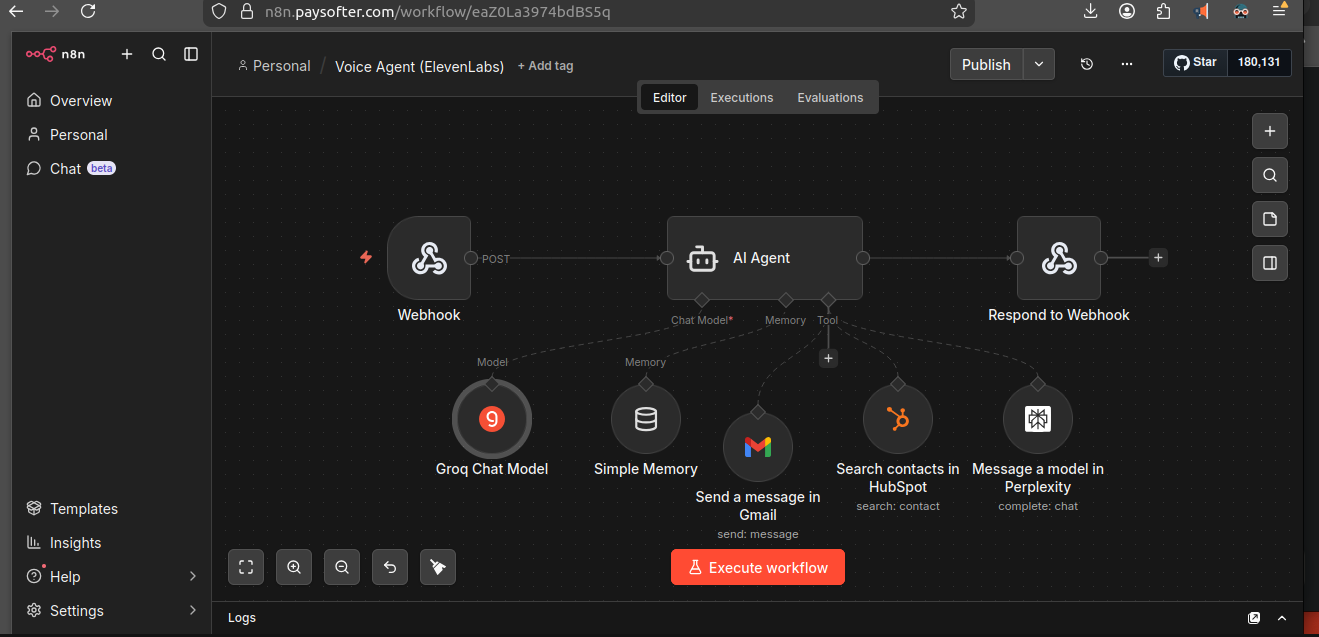
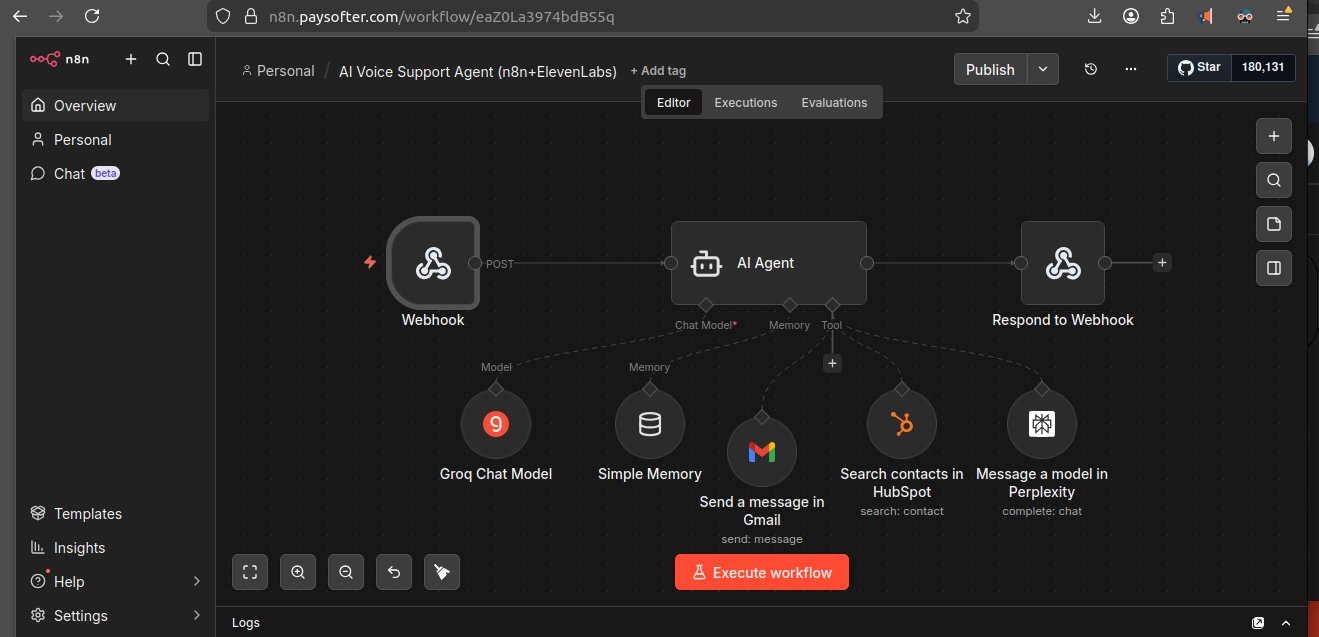
new update

diff --git a/README.md b/README.md
@@ -35,7 +35,7 @@ Demonstrates:
 
 ---
 
-## AI Voice Agent – n8n + ElevenLabs + LLM Automation
+## AI Support Voice Agent – n8n + ElevenLabs + LLM Automation
 
 Real-time AI voice agent built with n8n, integrating LLM reasoning, memory, and external tools for intelligent conversational automation.
 
